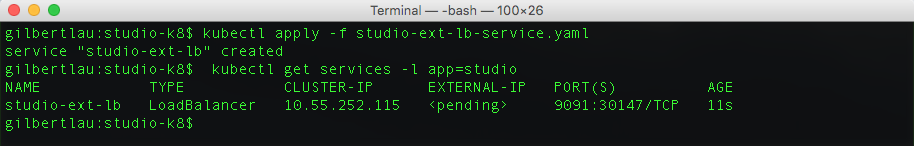
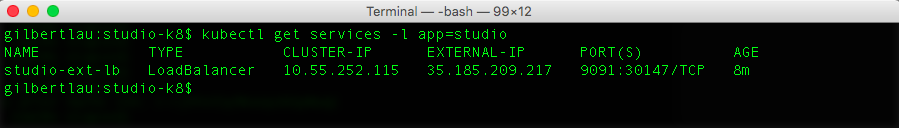
Updated doc

diff --git a/README.md b/README.md
@@ -127,15 +127,16 @@ Run $ kubectl apply -f studio-ext-lb-service.yaml
 Run $ kubectl apply -f studio.yaml
 Run $ cd ..
 ```
-You should see similar information at the bottom of output of this command **$ kubectl describe pods studio-0**:
+You should see similar information at the bottom of output of this command **$ kubectl describe pods studio-0**
 ![](./img/k8_studio_describe_pods.png)
 
 
 ##### Step 11. Run DataStax Studio Notebook Tutorials
-* Run $ kubectl get services -l app=studio (to grab the Studio's EXTERNAL-IP)
+* Run **$ kubectl get services -l app=studio** (to grab the Studio's EXTERNAL-IP)
+![](./img/k8_studio_ext_lb.png)
 * Point your browser at http://<Studio's EXTERNAL-IP>:9091
-* Update the Host/IP field of "DSE Graph QuickStart" and "Tutorial Connection" to dse-0.dse.default.svc.cluster.local through accessing the three-line menu at the upper-left corner as shown in the screen shots below.
-![](./img/studio_menu.png)
+* Update the Host/IP field of "DSE Graph QuickStart" and "Tutorial Connection" to **dse-0.dse.default.svc.cluster.local** through accessing the three-line menu at the upper-left corner as shown in the screen shots below.
+![](./img/studio_menu.png)<br>
 ![](./img/studio_connection.png)
 * The updated connections should look like the following.
 ![](./img/studio_updated_connection.png)
